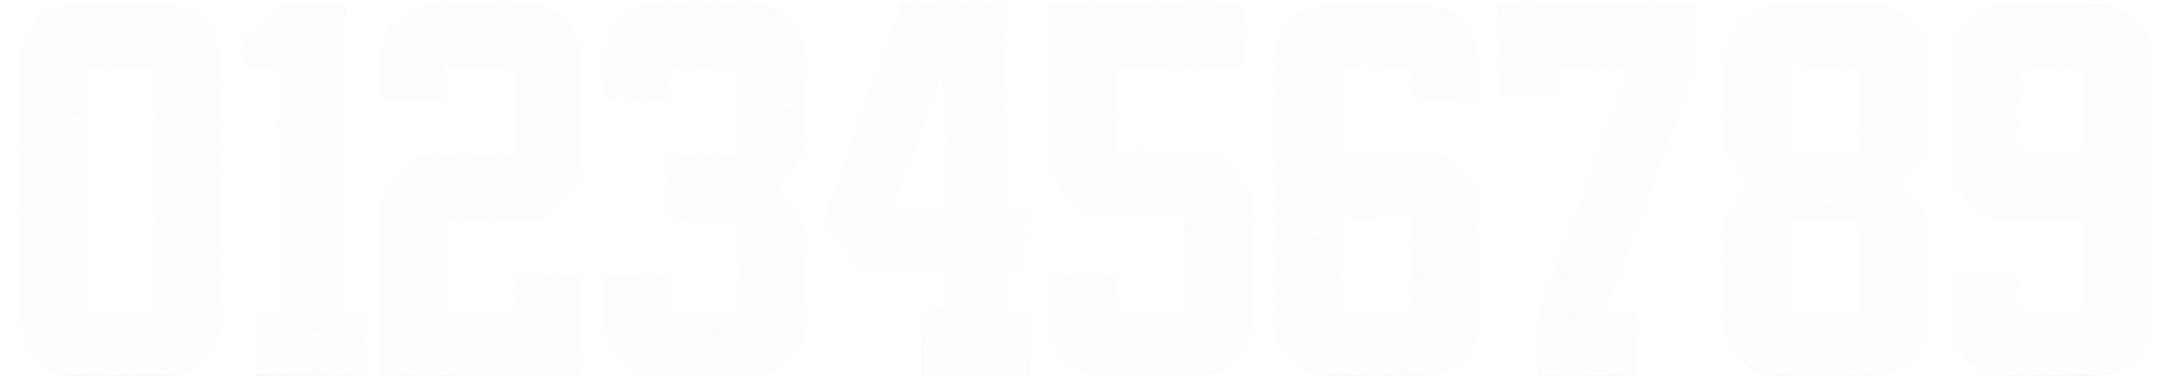
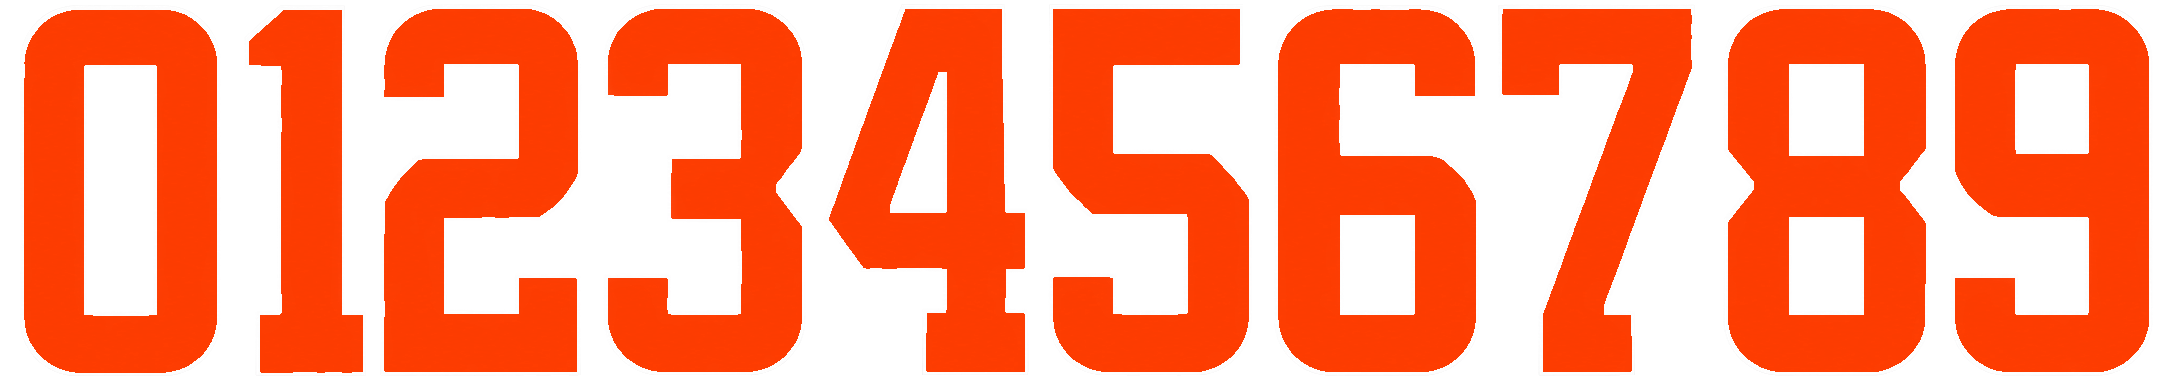
3.80: player renders for the Falcons and Browns (all 32 teams), orange Browns numbers
Claude-Session: https://claude.ai/code/session_01Nx5NARwc86Ay4Sngkv8wPb

Claude-Session: https://claude.ai/code/session_01Nx5NARwc86Ay4Sngkv8wPb

diff --git a/src/patchNotes.js b/src/patchNotes.js
@@ -1509,4 +1509,8 @@ export const PATCH_NOTES = [
   { v: "3.79", date: "2026-10-20", title: "TV caption logo outline", notes: [
     "TV view: the team logo in the play caption now has a white outline, so logos in the team's own color (like the Giants' blue on blue) stand out.",
   ] },
+  { v: "3.80", date: "2026-10-20", title: "Player art for all 32 teams", notes: [
+    "Player renders now cover all 32 teams: the Falcons and Browns are in, so every team's players stand in their own uniform in the spotlight.",
+    "Browns numbers are orange with a white outline, like the real home jersey.",
+  ] },
 ];

diff --git a/art/tools/clean_number_sheets.py b/art/tools/clean_number_sheets.py
@@ -8,6 +8,8 @@ DOTS = {"DEN", "DET"}
 # the sheet's fill colour matches the home jersey, so the numbers would vanish: fill them white
 # (keeping the trim). Miami's sheet came back aqua-filled for a white jersey; the home jersey is aqua.
 WHITE_FILL = {"MIA": (70, 100)}   # hue range (OpenCV, 0-180) of the fill to whiten
+# a plain white sheet for a team whose real numbers are coloured: recolour the fill, white outline
+RECOLOR = {"CLE": (255, 60, 0)}    # Browns orange
 for f in sorted(glob.glob(os.path.join(ART, "numbers", "source", "*_Home_Numbers_0-9.png"))):
     ab = os.path.basename(f).split("_")[0]
     im = np.array(Image.open(f).convert("RGBA")).astype(np.float32)
@@ -37,6 +39,11 @@ for f in sorted(glob.glob(os.path.join(ART, "numbers", "source", "*_Home_Numbers
     n, lab, st, _ = cv2.connectedComponentsWithStats((a > 0).astype(np.uint8), 8)
     keep = np.zeros(n, bool); keep[1:] = st[1:, 4] > 400
     a[~keep[lab]] = 0
+    if ab in RECOLOR:
+        k = max(3, int(im.shape[0] * 0.012))                           # outline width
+        inner = cv2.erode((a > 128).astype(np.uint8), np.ones((k, k), np.uint8)).astype(bool)
+        shade = rgb[..., :].mean(-1) / 255                             # keep the sheet's light and shadow
+        rgb[inner] = np.array(RECOLOR[ab], np.float32) * np.clip(shade[inner], 0.75, 1)[:, None]
     res = np.dstack([np.clip(rgb, 0, 255), a]).astype(np.uint8)
     # tight crop to the digits row
     ys = np.where((a > 60).any(1))[0]; res = res[max(0, ys[0] - 4): ys[-1] + 5]

diff --git a/art/README.md b/art/README.md
@@ -8,7 +8,7 @@ screens will load processed copies from `public/` once they are built.
 
 | | Done | Teams |
 |---|---|---|
-| Player sprites (6 per team) | 30 / 32 | all but ATL and CLE |
+| Player sprites (6 per team) | 32 / 32 | all |
 | Number sheets | 32 / 32 | all (Giants use `numbers/NYG_original.png`) |
 
 Giants: `players/NYG_numbered/NYG_{00-99}.png` are full renders with the real number already on the
@@ -24,7 +24,8 @@ pose and framing (Dart, Carter, Reese, Nabers, Skattebo, Burns, Hood). These tak
 Open notes:
 - **MIA**: the sheet came back aqua with orange trim (made for a white jersey); the home jersey is aqua,
   so `clean_number_sheets.py` fills the digits white and keeps the trim.
-- **CLE** numbers are plain white with no outline; real Browns home numbers are orange.
+- **CLE**: the sheet came back plain white; `clean_number_sheets.py` recolours it Browns orange with a
+  white outline.
 
 ## Layout
 
